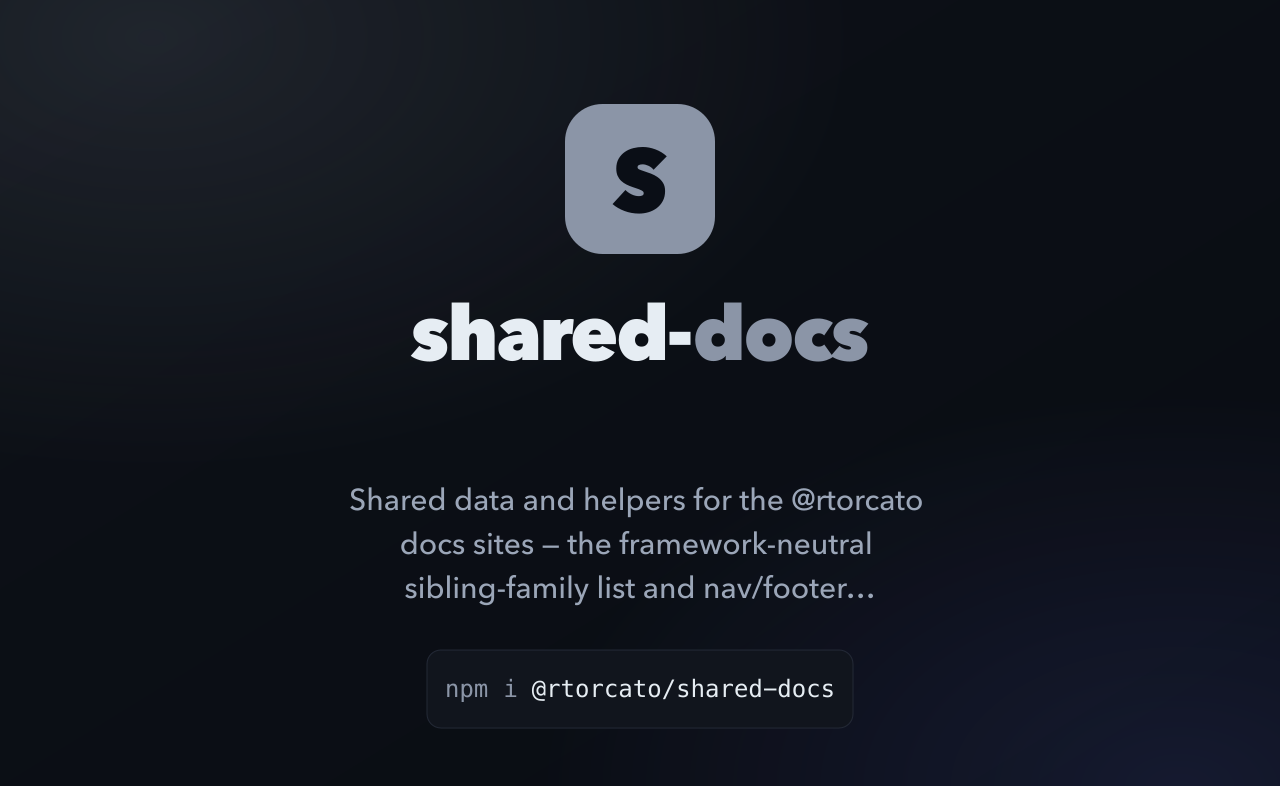
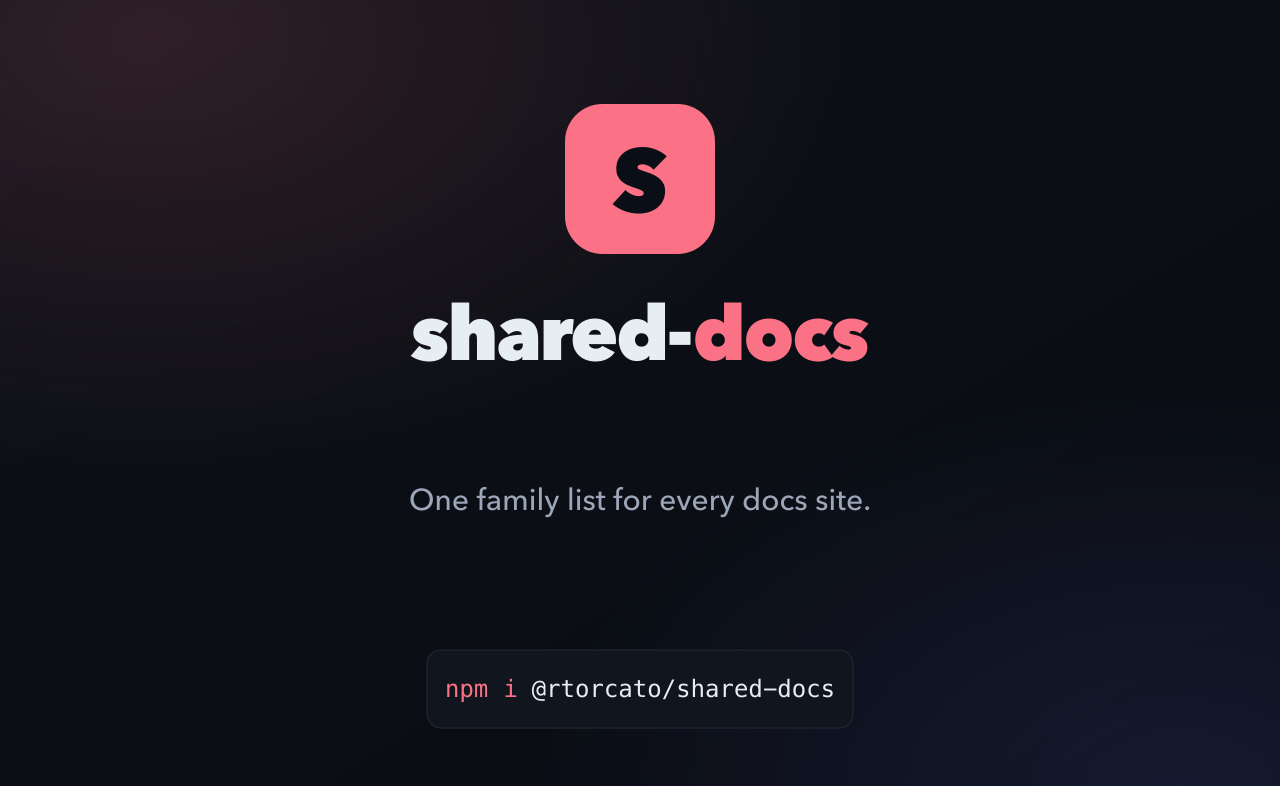
chore(brand): rose accent, short tagline and DESIGN.md
Replace brand-kit's default grey accent and the cut-off package
description with a rose accent (#fb7185) and a one-line tagline.
Recolour the favicon tile, re-render every PNG, and document the
brand and its regenerate flags in DESIGN.md.

diff --git a/DESIGN.md b/DESIGN.md
@@ -1,0 +1,47 @@
+# Design
+
+shared-docs ships data and a few React components; it owns no theme. Colour,
+type and the `--ifm-*` / `--jt-*` tokens live in repo-tooling's
+`tooling/docusaurus/` (see CLAUDE.md, "Boundary with repo-tooling"). This file
+only covers the repo's own brand.
+
+## Brand
+
+Generated by [`@rtorcato/brand-kit`](https://github.com/rtorcato/brand-kit) into
+`brand/`. The SVGs are the source; the PNGs are rendered from them.
+
+| | |
+|---|---|
+| Accent | Rose `#fb7185` |
+| Tagline | One family list for every docs site. |
+| Mark | Rose tile, ink `S` (`#0A0E16`) |
+| Type | Avenir Next (wordmark, tagline), Menlo (install pill) |
+
+**Why rose.** Every sibling in `src/family.ts` already has its own hue. Rose
+fills the open slot between swift-common's coral `#ff6f4d` and api-common's
+fuchsia `#e879f9`. Teal `#2dd4bf` was the other candidate, but it
+is held for infra-x in the commented-out family entry. The options are in
+[`docs/design/accent-options.png`](docs/design/accent-options.png).
+
+**Why this tagline.** The package description runs to three lines and gets cut
+off with "…" on every canvas. The tagline fits on one line of the desktop banner.
+
+### Regenerating
+
+brand-kit doesn't save the flags, so pass them every time or the defaults
+(package.json description, accent read from `favicon.svg`) come back:
+
+```sh
+npx @rtorcato/brand-kit --update --tagline "One family list for every docs site." --accent "#fb7185"
+npx @rtorcato/brand-kit doctor --strict --tagline "One family list for every docs site." --accent "#fb7185"
+```
+
+`--update` never rewrites `favicon.svg`. To change the accent, edit the tile's
+`fill` there by hand, then run `npx @rtorcato/brand-kit render`.
+
+### Rules
+
+- Don't add shared-docs to `FAMILY` just to give brand-kit a tagline. That
+  would make it show up in every site's sibling grid.
+- Keep the accent out of the components. They take colour from the theme
+  tokens, and this accent is only for the repo's brand.
